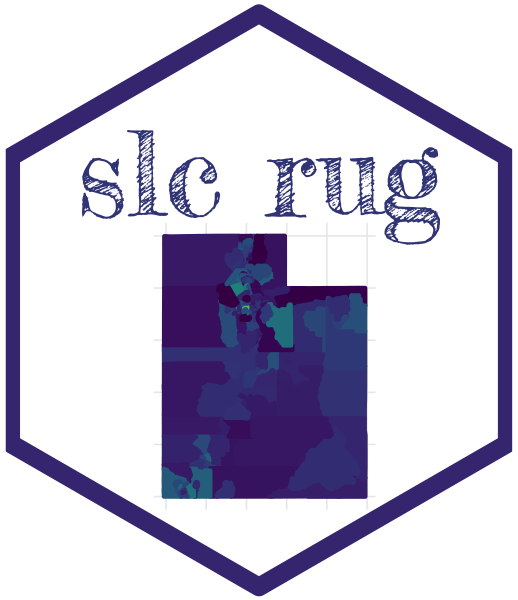
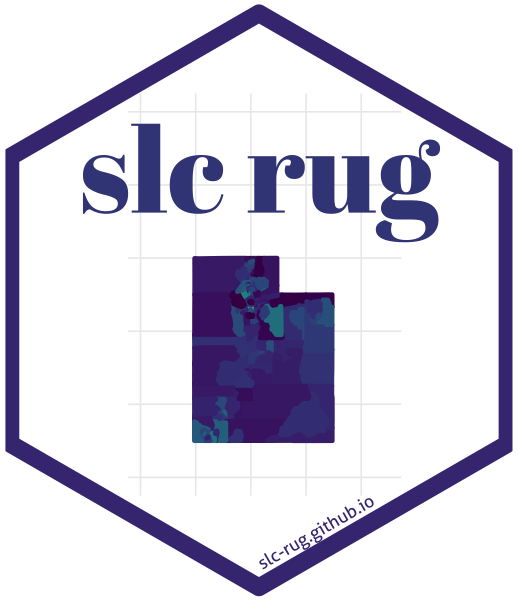
Extend some grid lines further on the sticker

diff --git a/R/make_hex.md b/R/make_hex.md
@@ -12,6 +12,7 @@ output: github_document
 library(tidyverse)
 library(tidycensus)
 
+
 options(tigris_use_cache = TRUE)
 
 utah <- get_acs(state = "UT", 
@@ -57,6 +58,7 @@ head(utah)
 
 
 
+
 ```r
 library(viridis)
 library(hexSticker)
@@ -64,7 +66,8 @@ library(hexSticker)
 ut <- utah %>%
     ggplot(aes(fill = estimate, color = estimate)) + 
     geom_sf() + 
-    coord_sf() + 
+    coord_sf(xlim = c(-107, -116),
+             ylim = c(36, 46)) + 
     scale_fill_viridis() + 
     scale_color_viridis() + 
     theme_minimal() +
@@ -78,23 +81,21 @@ ut
 
 ![plot of chunk unnamed-chunk-1](figure/unnamed-chunk-1-1.png)
 
-
-
-
 ```r
-sysfonts::font_add_google("Fredericka the Great", "Fredericka")
-
-sticker(ut, 
+sticker(ut,
         package = "slc rug", 
         p_size = 10,
         p_y = 1.45,
-        p_family = "Fredericka",
+        p_family = "abril",
         p_color = "#3F4788FF",
         h_fill = "#FFFFFF",
         h_color = "#453781FF",
-        h_size = 2.1,
-        s_x = 1, s_y = .75, 
-        s_width=1.2, s_height=1.2,
+        h_size = 2,
+        s_x = 1, s_y = 1, 
+        s_width = 1.6, s_height = 1.6,
+        url = "slc-rug.github.io",
+        u_color	= "#453781FF",
         filename="slcrug_hex.png")
 ```
+
 
